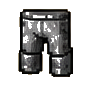
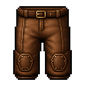
Add files via upload

diff --git a/index.html b/index.html
@@ -1,4 +1,4 @@
-<!doctype html><html lang="ja"><head><meta charset="utf-8"><meta name="viewport" content="width=device-width,initial-scale=1,viewport-fit=cover,user-scalable=no"><title>100問計算RPG</title><link rel="manifest" href="./manifest.webmanifest"><meta name="apple-mobile-web-app-capable" content="yes"><meta name="theme-color" content="#071b32"><link rel="apple-touch-icon" href="./icon-180.png"><style>
+<!doctype html><html lang="ja"><head><meta charset="utf-8"><meta name="viewport" content="width=device-width,initial-scale=1,viewport-fit=cover,user-scalable=no"><title>100問計算RPG</title><link rel="manifest" href="./manifest.webmanifest"><link rel="icon" href="./icon-192.png"><meta name="apple-mobile-web-app-capable" content="yes"><meta name="theme-color" content="#071b32"><link rel="apple-touch-icon" href="./icon-180.png"><style>
 *{box-sizing:border-box;-webkit-tap-highlight-color:transparent}html,body{margin:0;background:#eef1f4;font-family:-apple-system,BlinkMacSystemFont,"Yu Gothic","Meiryo",sans-serif;color:#17202a;overscroll-behavior:none}body.lock{position:fixed;inset:0;overflow:hidden;touch-action:none}main{min-height:100dvh;display:grid;place-items:center;padding:12px}.card{width:min(1220px,100%);background:#fff;border-radius:22px;padding:14px}.hide{display:none!important}h1{text-align:center;margin:4px}button{width:100%;border:0;border-radius:13px;padding:14px;margin-top:8px;background:#17202a;color:#fff;font-size:18px;font-weight:800;cursor:pointer}.secondary{background:#e8edf2;color:#17202a}.top{display:flex;align-items:center;justify-content:space-between;gap:8px;font-weight:800;color:#667085}.problem{text-align:center;font-size:clamp(48px,11vh,86px);font-weight:900;margin:18px 0 8px}.display{height:70px;border:3px solid #ccd2d8;border-radius:14px;display:grid;place-items:center;font-size:50px;font-weight:900}.keys{display:grid;grid-template-columns:repeat(3,1fr);gap:7px;margin-top:8px}.key{margin:0;padding:12px;background:#e8edf2;color:#17202a;font-size:29px}.enter{background:#17202a;color:#fff;font-size:17px}.score{text-align:center;font-size:50px;font-weight:900}.loot{text-align:center;background:#fff5c8;padding:15px;border-radius:14px;font-size:22px;font-weight:900;margin:10px 0}.row{border-top:1px solid #ddd;padding:10px 2px;display:flex;justify-content:space-between}.geargrid{display:grid;grid-template-columns:repeat(5,1fr);gap:6px}.gear{text-align:center;background:#eef2f6;border-radius:10px;padding:8px}.gear b{display:block;font-size:20px}
 @media(max-height:750px){.card{padding:11px}.problem{font-size:46px;margin:7px}.display{height:52px;font-size:38px}.key{padding:8px}}
 
@@ -26,10 +26,11 @@
 .statList{display:grid;gap:7px;margin-top:15px}.statItem{display:flex;justify-content:space-between;gap:10px;padding:9px;border-radius:8px;background:#ffffff0c;border:1px solid #ffffff18}.statItem b{color:#ffe07a;text-align:right}.rankLabel{margin:13px 0 6px;color:#fff1bd;font-size:13px;font-weight:900}.rankPath{display:flex;align-items:center;justify-content:space-between;gap:3px;font-size:11px}.rankStep{padding:6px 5px;border-radius:7px;background:#07111d;color:#9ba5ae;white-space:nowrap}.rankStep.active{background:#b17314;color:#fff3c1;font-weight:900}
 .equipGrid{display:grid;grid-template-columns:repeat(5,minmax(0,1fr));gap:7px}.eqCard{min-width:0;min-height:184px;display:flex;flex-direction:column;align-items:center;overflow:hidden;border:1px solid #b78326;border-radius:9px;background:linear-gradient(#fff7dc,#ead6a6);color:#2b1b08;box-shadow:inset 0 0 0 1px #fff9d8}.eqHead{width:100%;padding:6px 2px;background:linear-gradient(#5a3b0c,#2b1b05);color:#fff2c6;text-align:center;font-size:12px;font-weight:900}.eqIconWrap{width:100%;height:72px;display:grid;place-items:center;margin-top:4px}.eqIcon{display:block;width:62px;height:62px;object-fit:contain;image-rendering:pixelated;border:0}.eqName{min-height:3.2em;display:flex;align-items:center;justify-content:center;padding:3px 5px;text-align:center;font-size:12px;font-weight:900;line-height:1.35;overflow-wrap:anywhere}.eqState{margin:auto 4px 7px;padding:4px 8px;border-radius:99px;background:#2d7b2f;color:#fff;font-size:10px;font-weight:900;white-space:nowrap}.eqState.missing{background:#746c61;color:#f4f1eb}.completeValue{display:grid;grid-template-columns:1fr 1fr;gap:8px;margin-top:10px;padding:0;background:transparent;color:#ffe69a;font-size:14px}.completeMetric{padding:8px;border-radius:8px;background:#ffffff0d;text-align:center}.completeMetric b{display:block;margin-top:2px;font-size:19px}.menuGrid{display:grid;grid-template-columns:1fr 1fr;gap:8px;margin-top:10px}.menuButton{margin:0!important;padding:10px 6px!important;font-size:13px!important;background:linear-gradient(#573508,#271704)!important;border:1px solid #d8a448!important}
 .widePanels{display:grid;grid-template-columns:1fr 1fr;gap:14px;margin-top:14px}.infoPanel{min-height:210px}.bossSummary{display:grid;grid-template-columns:82px 1fr;gap:12px;align-items:center}.bossMark{font-size:62px;text-align:center}.bossSummary p{margin:4px 0}.bossReady{color:#ffd64b;font-weight:900}.recentOverlay{font-size:13px}.recentRow{display:grid;grid-template-columns:.8fr .85fr .75fr .9fr;gap:8px;padding:9px 0;border-bottom:1px solid #835125;align-items:center}.recentEmpty{min-height:110px;display:grid;place-items:center;color:#d8c6a2;font-weight:800}
+.bossArt{display:block;width:82px;height:82px;object-fit:contain;filter:drop-shadow(0 5px 5px #0008)}.bossBookGrid{display:grid;grid-template-columns:repeat(5,minmax(150px,1fr));gap:12px}.bossBookEntry{padding:12px;border:1px solid #c48818;border-radius:14px;background:#071b2c;text-align:center}.bossBookEntry.current{box-shadow:0 0 0 3px #ffd24a inset}.bossBookEntry img{width:132px;height:132px;object-fit:contain;max-width:100%}.bossBookEntry h2{font-size:17px;margin:4px 0}.bossBookEntry p{margin:3px 0;font-size:13px}.bossBookEntry.future img{filter:brightness(0)}.bossBookEntry.future h2{letter-spacing:.15em}.bossResult{font-weight:900;color:#ffe071}
 .ruleStrip{margin-top:14px}.ruleStrip summary{cursor:pointer;color:#ffe699;font-weight:900}.ruleStrip ol{columns:2;line-height:1.75;margin-bottom:0}
 .subPage{min-height:70vh;padding:4px}.ruleCard,.bossCard{background:#f7f1e5;border:3px solid #79551d;border-radius:16px;padding:16px;box-shadow:inset 0 0 0 2px #d8bb78}.ruleCard ol{line-height:1.75;padding-left:24px}.bossCard{text-align:center}.bossEmoji{font-size:72px}.bossCard h2{margin:5px 0}
-@media(max-width:1040px){.rpgGrid{grid-template-columns:1fr}.rpgGrid>.rpgPanel{height:auto}.heroPanel{min-height:0}.heroPortrait{width:190px}.equipGrid{grid-template-columns:repeat(3,minmax(0,1fr))}.eqCard{min-height:176px}.equipGrid .eqCard:nth-child(4),.equipGrid .eqCard:nth-child(5){grid-column:span 1}.widePanels{grid-template-columns:1fr}.ruleStrip ol{columns:1}.startButton{font-size:clamp(18px,3.5vw,25px)!important}}
-@media(max-width:560px){main{padding:5px}.card{padding:5px;border-radius:10px}.rpgHome{padding:9px;border-width:2px}.rpgPanel{padding:10px}.gameTitle{font-size:clamp(31px,11vw,44px)}.heroPortrait{width:170px}.startButton{font-size:clamp(15px,4.5vw,20px)!important;padding-inline:4px!important}.equipGrid{grid-template-columns:repeat(2,minmax(0,1fr))}.eqCard:first-child{grid-column:1/-1}.eqName{font-size:13px}.menuGrid{grid-template-columns:1fr}.completeValue{grid-template-columns:1fr}.recentRow{grid-template-columns:1fr 1fr}.recentRow .recentKind{display:none}.rankPath{overflow-x:auto;justify-content:flex-start;padding-bottom:3px}.rankStep{font-size:11px}.ruleStrip ol{padding-left:23px}}
+@media(max-width:1040px){.rpgGrid{grid-template-columns:1fr}.rpgGrid>.rpgPanel{height:auto}.heroPanel{min-height:0}.heroPortrait{width:190px}.equipGrid{grid-template-columns:repeat(3,minmax(0,1fr))}.eqCard{min-height:176px}.equipGrid .eqCard:nth-child(4),.equipGrid .eqCard:nth-child(5){grid-column:span 1}.widePanels{grid-template-columns:1fr}.bossBookGrid{grid-template-columns:repeat(2,minmax(0,1fr))}.ruleStrip ol{columns:1}.startButton{font-size:clamp(18px,3.5vw,25px)!important}}
+@media(max-width:560px){main{padding:5px}.card{padding:5px;border-radius:10px}.rpgHome{padding:9px;border-width:2px}.rpgPanel{padding:10px}.gameTitle{font-size:clamp(31px,11vw,44px)}.heroPortrait{width:170px}.startButton{font-size:clamp(15px,4.5vw,20px)!important;padding-inline:4px!important}.equipGrid{grid-template-columns:repeat(2,minmax(0,1fr))}.eqCard:first-child{grid-column:1/-1}.eqName{font-size:13px}.menuGrid{grid-template-columns:1fr}.completeValue{grid-template-columns:1fr}.recentRow{grid-template-columns:1fr 1fr}.recentRow .recentKind{display:none}.bossBookGrid{grid-template-columns:1fr}.rankPath{overflow-x:auto;justify-content:flex-start;padding-bottom:3px}.rankStep{font-size:11px}.ruleStrip ol{padding-left:23px}}
 @media(max-height:750px){.problem{font-size:46px;margin:7px}.display{height:52px;font-size:38px}.key{padding:8px}}
 </style></head><body><main><section class="card">
 <div id="home"><div class="rpgHome">
@@ -49,7 +50,7 @@
       <div class="menuGrid"><button class="menuButton" id="historyHot">📜 過去の記録</button><button class="menuButton" id="gearHot">📖 装備図鑑</button><button class="menuButton" id="bossBookHot">👾 ボス図鑑</button><button class="menuButton" id="rulesHot">❔ 遊び方 / ルール</button></div>
     </section>
   </div>
-  <div class="widePanels"><section class="rpgPanel infoPanel"><h2 class="panelTitle">👾 ボスについて</h2><div class="bossSummary"><div class="bossMark">🐉</div><div><p><b>はじまりの竜</b></p><p>通常100問を3回クリアすると出現。</p><p>20問すべて一発正解で撃破！</p><p class="bossReady" id="bossSummary"></p><p id="bossWins"></p></div></div><button id="bossBtn" class="hide bossAction">ボスに挑戦する</button></section>
+  <div class="widePanels"><section class="rpgPanel infoPanel"><h2 class="panelTitle">👾 ボスについて</h2><div class="bossSummary"><img id="bossImage" class="bossArt" alt=""><div><p><b id="bossName"></b></p><p>通常100問を3回クリアすると出現。</p><p>20問すべて一発正解で撃破！</p><p class="bossReady" id="bossSummary"></p><p id="bossWins"></p></div></div><button id="bossBtn" class="hide bossAction">ボスに挑戦する</button></section>
   <section class="rpgPanel infoPanel"><h2 class="panelTitle">👑 最近の記録</h2><div class="recentOverlay" id="recentOverlay"></div></section></div>
   <details class="rpgPanel ruleStrip"><summary>📖 ゲームルールを表示</summary><ol><li>毎日100問の計算に挑戦する</li><li>100問を最後まで解くとEXP獲得</li><li>連続して挑戦するとEXPボーナス</li><li>休んでもレベル・装備・進行は失わない</li><li>100問を3回クリアするとボス出現</li><li>ボス戦は20問</li><li>全問一発正解でボス撃破</li><li>ボスを倒すと防具宝箱を1個GET</li><li>防具はランダムで重複あり</li><li>頭・胴・脚・足を全部集めると次ランク解放</li><li>ランク解放時に新しい剣を自動装備</li><li>最高ランクを目指す</li></ol></details>
 </div></div>
@@ -60,13 +61,7 @@
 
 <div id="bossbook" class="hide subPage">
   <h1>ボス図鑑</h1>
-  <div class="bossCard">
-    <div class="bossEmoji">🐉</div>
-    <h2>はじまりの竜</h2>
-    <p>通常の100問を3回クリアすると出現。</p>
-    <p><b>20問すべて一発正解</b>で撃破できます。</p>
-    <div id="bossRecord"></div>
-  </div>
+  <div id="bossCatalog" class="bossBookGrid"></div>
   <button class="secondary back">トップへ戻る</button>
 </div>
 
@@ -88,9 +83,18 @@
   <button class="secondary back">トップへ戻る</button>
 </div>
 </section></main><script>
-const $=x=>document.getElementById(x),T=["革","石","鉄","ダイヤ","ネザライト"],TK=["leather","stone","iron","diamond","nether"],P=["頭","胴","脚","足"],PK=["head","body","legs","feet"],W=["木の剣","石の剣","鉄の剣","ダイヤの剣","ネザライトの剣"];let qs=[],i=0,w=[],v="",t0=0,tick,kind="normal";
+const $=x=>document.getElementById(x),T=["革","石","鉄","ダイヤ","ネザライト"],TK=["leather","stone","iron","diamond","nether"],P=["頭","胴","脚","足"],PK=["head","body","legs","feet"],W=["木の剣","石の剣","鉄の剣","ダイヤの剣","ネザライトの剣"];
+const BOSSES=[
+  {id:"starter_dragon",tier:0,name:"はじまりの竜",image:"./assets/bosses/boss_leather.png"},
+  {id:"rock_golem",tier:1,name:"岩石ゴーレム",image:"./assets/bosses/boss_stone.png"},
+  {id:"black_iron_knight",tier:2,name:"黒鉄の騎士",image:"./assets/bosses/boss_iron.png"},
+  {id:"azure_crystal_dragon",tier:3,name:"蒼晶のドラゴン",image:"./assets/bosses/boss_diamond.png"},
+  {id:"nether_demon_king",tier:4,name:"冥界の魔王",image:"./assets/bosses/boss_nether.png"}
+];
+let qs=[],i=0,w=[],v="",t0=0,tick,kind="normal",activeBoss=null;
+function bossForTier(tier){return BOSSES[Math.min(4,Math.max(0,tier||0))]}
 function dk(d=new Date()){return d.getFullYear()+"-"+String(d.getMonth()+1).padStart(2,"0")+"-"+String(d.getDate()).padStart(2,"0")}
-function state(){const base={xp:0,clears:0,boss:false,tier:0,gear:{},hist:[],dates:[],total:0};try{const old=JSON.parse(localStorage.getItem("calcRPG")||"{}");const s={...base,...old};s.gear=s.gear&&typeof s.gear==="object"?s.gear:{};s.hist=Array.isArray(s.hist)?s.hist:[];s.dates=Array.isArray(s.dates)?s.dates:[];s.xp=Number.isFinite(s.xp)?s.xp:0;s.clears=Number.isFinite(s.clears)?s.clears:0;s.tier=Math.min(4,Math.max(0,Number.isFinite(s.tier)?s.tier:0));s.total=Number.isFinite(s.total)?s.total:0;s.boss=Boolean(s.boss);return s}catch(e){return base}}
+function state(){const base={xp:0,clears:0,boss:false,tier:0,gear:{},hist:[],dates:[],total:0,bossWins:{}};try{const old=JSON.parse(localStorage.getItem("calcRPG")||"{}");const s={...base,...old};s.gear=s.gear&&typeof s.gear==="object"?s.gear:{};s.hist=Array.isArray(s.hist)?s.hist:[];s.dates=Array.isArray(s.dates)?s.dates:[];s.bossWins=s.bossWins&&typeof s.bossWins==="object"&&!Array.isArray(s.bossWins)?s.bossWins:{};BOSSES.forEach(b=>s.bossWins[b.id]=Math.max(0,Number.isFinite(s.bossWins[b.id])?s.bossWins[b.id]:0));s.xp=Number.isFinite(s.xp)?s.xp:0;s.clears=Number.isFinite(s.clears)?s.clears:0;s.tier=Math.min(4,Math.max(0,Number.isFinite(s.tier)?s.tier:0));s.total=Number.isFinite(s.total)?s.total:0;s.boss=Boolean(s.boss);return s}catch(e){return base}}
 function save(s){localStorage.setItem("calcRPG",JSON.stringify(s))}
 function sh(a){for(let j=a.length-1;j;j--){let k=Math.floor(Math.random()*(j+1));[a[j],a[k]]=[a[k],a[j]]}return a}
 function gen(n){let a=[],u=new Set(),p=Math.ceil(n/2);while(a.length<p){let x=10+Math.floor(Math.random()*90),y=10+Math.floor(Math.random()*90),k=`+${x},${y}`;if(!u.has(k)){u.add(k);a.push({x,y,o:"+",a:x+y})}}while(a.length<n){let x=10+Math.floor(Math.random()*90),y=10+Math.floor(Math.random()*90);if(y>x)[x,y]=[y,x];let k=`-${x},${y}`;if(!u.has(k)){u.add(k);a.push({x,y,o:"−",a:x-y})}}return sh(a)}
@@ -132,7 +136,7 @@ function renderRecent(s){
 }
 
 function home(){document.body.classList.remove("lock");hide();$("home").classList.remove("hide");
-  let s=state(),level=levelInfo(s.xp),lv=level.level,x=level.current,st=bonusStreak(s),daily=todayNormal(s);
+  let s=state(),level=levelInfo(s.xp),lv=level.level,x=level.current,st=bonusStreak(s),daily=todayNormal(s),currentBoss=bossForTier(s.tier);
   $("lvLive").textContent=lv;
   $("xpLive").textContent=x+" / 300";
   $("xpFill").style.width=(x/3)+"%";
@@ -143,21 +147,23 @@ function home(){document.body.classList.remove("lock");hide();$("home").classLis
   $("bonusLive").textContent=st>1?"+"+streakBonus(st)+" EXP（"+st+"日連続）":"なし";
   $("bossLive").textContent=s.boss?"出現中！":"あと "+(3-(s.clears%3))+"回";
   $("bossSummary").textContent=s.boss?"BOSS出現中！":"次のボスまであと "+(3-(s.clears%3))+"回";
-  $("bossWins").textContent="ボス撃破数 "+s.hist.filter(x=>x.kind==="boss"&&x.score===20).length+"体";
+  $("bossImage").src=currentBoss.image;$("bossImage").alt=currentBoss.name;$("bossName").textContent=currentBoss.name;
+  $("bossWins").textContent=currentBoss.name+" 撃破数 "+s.bossWins[currentBoss.id]+"体";
   $("rankPath").innerHTML=T.map((name,n)=>`<span class="rankStep ${n===s.tier?"active":""}">${name}</span>${n<T.length-1?"<span>›</span>":""}`).join("");
   renderTopEquipment(s);renderRecent(s);
   $("bossBtn").classList.toggle("hide",!s.boss)
 }
 function startSession(questions,k){kind=k;qs=sh(questions.slice());i=0;w=[];v="";hide();$("quiz").classList.remove("hide");document.body.classList.add("lock");$("mode").textContent=k==="boss"?"BOSS":k==="review"?"復習":"通常";t0=Date.now();$("timer").textContent=fmt(0);clearInterval(tick);tick=setInterval(()=>$("timer").textContent=fmt(Date.now()-t0),500);show()}
-function begin(n,k){startSession(gen(n),k)}
+function begin(n,k){if(k==="boss")activeBoss={...bossForTier(state().tier)};startSession(gen(n),k)}
 function show(){if(i>=qs.length)return finish();let q=qs[i];$("prog").textContent=(i+1)+"/"+qs.length;$("prob").textContent=q.x+" "+q.o+" "+q.y+" =";v="";$("disp").textContent="　"}
 function key(k){if(k==="B"){v=v.slice(0,-1)}else if(k==="E"){if(v==="")return;let q=qs[i];if(+v!==q.a)w.push({...q,g:v});i++;return show()}else if(v.length<3)v+=k;$("disp").textContent=v||"　"}
 function finish(now=new Date()){clearInterval(tick);document.body.classList.remove("lock");let tm=Math.max(0,Date.now()-t0),s=state(),score=qs.length-w.length;hide();$("result").classList.remove("hide");$("loot").classList.add("hide");$("rtitle").textContent=kind==="boss"?"ボス戦結果":kind==="review"?"復習結果":"今日の結果";$("score").textContent=score+"/"+qs.length+"点";$("rinfo").textContent="所要時間 "+fmt(tm);$("wrongs").innerHTML=w.length?"<h2>間違えた問題</h2>":"<p style='text-align:center'>全問正解！</p>";w.forEach(q=>$("wrongs").innerHTML+=`<div class=row><span>${q.x} ${q.o} ${q.y} = <s>${q.g}</s></span><b>${q.a}</b></div>`);$("retry").classList.toggle("hide",!w.length);$("retry").textContent=kind==="boss"?"ボス20問にもう一度挑戦":kind==="review"?"残り"+w.length+"問をもう一度":"間違えた"+w.length+"問をもう一度";
  if(kind==="normal"){s.total+=qs.length;const date=dk(now);if(!s.dates.includes(date))s.dates.push(date);let st=streak(s),bonus=streakBonus(st),gain=normalGain(score,st);s.xp+=gain;s.clears++;if(s.clears%3===0)s.boss=true;s.hist.push({date,at:now.toISOString(),kind:"normal",score,total:100,time:tm,xp:gain});$("rinfo").textContent+="　獲得EXP +"+gain+(bonus?`（連続ボーナス +${bonus} EXP）`:"")}
  else if(kind==="review"){s.total+=qs.length;$("rinfo").textContent+="　復習完了（EXP・クリア回数・ボス進行への加算なし）"}
- else if(kind==="boss"&&score===20){s.boss=false;s.total+=qs.length;s.xp+=100;let tier=Math.min(s.tier,4),part=Math.floor(Math.random()*4),key=tier+"-"+part;s.gear[key]=(s.gear[key]||0)+1;let complete=P.every((_,p)=>s.gear[tier+"-"+p]>0);let msg=T[tier]+"の"+P[part]+"装備 GET！";if(complete&&tier<4){s.tier++;msg+="　"+T[tier]+"装備 COMPLETE！ → "+T[s.tier]+"装備解放！"}else if(complete&&tier===4)msg+="　最高ランク COMPLETE！";$("loot").textContent=msg;$("loot").classList.remove("hide");s.hist.push({date:dk(now),at:now.toISOString(),kind:"boss",score:20,total:20,time:tm})}
+ else if(kind==="boss"&&score===20){const defeated=activeBoss||bossForTier(s.tier),tier=defeated.tier;s.boss=false;s.total+=qs.length;s.xp+=100;s.bossWins[defeated.id]=(s.bossWins[defeated.id]||0)+1;let part=Math.floor(Math.random()*4),key=tier+"-"+part;s.gear[key]=(s.gear[key]||0)+1;let complete=P.every((_,p)=>s.gear[tier+"-"+p]>0),msg=defeated.name+" 撃破！　"+T[tier]+"の"+P[part]+"装備 GET！";$("rtitle").textContent=defeated.name+" 撃破！";if(complete&&tier<4){s.tier=tier+1;const next=bossForTier(s.tier);msg+="　"+T[tier]+"装備 COMPLETE！　新ランク："+T[s.tier]+"　新しい武器："+W[s.tier]+"　次のボス："+next.name}else if(complete&&tier===4)msg+="　最高ランク COMPLETE！";$("loot").textContent=msg;$("loot").classList.remove("hide");s.hist.push({date:dk(now),at:now.toISOString(),kind:"boss",score:20,total:20,time:tm,bossId:defeated.id,bossName:defeated.name,tier})}
  else if(kind==="boss"){$("rinfo").textContent+="　ボスに逃げられた！ 20問すべて一発正解でもう一度挑戦！"}save(s)}
-function showHist(){hide();$("history").classList.remove("hide");let a=state().hist.slice().reverse();$("hist").innerHTML=a.length?"":"記録はまだありません。";a.forEach(x=>{const date=x&&x.date||"日付不明",score=Number.isFinite(x&&x.score)?x.score:"-",total=Number.isFinite(x&&x.total)?x.total:"-",time=Number.isFinite(x&&x.time)?fmt(x.time):"時間不明";$("hist").innerHTML+=`<div class=row><span>${date} ${x&&x.kind==="boss"?"BOSS":"通常"}</span><b>${score}/${total}　${time}</b></div>`})}
+function showHist(){hide();$("history").classList.remove("hide");let a=state().hist.slice().reverse();$("hist").innerHTML=a.length?"":"記録はまだありません。";a.forEach(x=>{const date=x&&x.date||"日付不明",score=Number.isFinite(x&&x.score)?x.score:"-",total=Number.isFinite(x&&x.total)?x.total:"-",time=Number.isFinite(x&&x.time)?fmt(x.time):"時間不明",label=x&&x.kind==="boss"?(x.bossName||"BOSS"):"通常";$("hist").innerHTML+=`<div class=row><span>${date} ${label}</span><b>${score}/${total}　${time}</b></div>`})}
+function showBossBook(){hide();$("bossbook").classList.remove("hide");const s=state();$("bossCatalog").innerHTML=BOSSES.map(b=>{const unlocked=b.tier<=s.tier,current=b.tier===s.tier,name=unlocked?b.name:"？？？",status=current?"現在のボス":b.tier<s.tier?"解放済み":"未解放";return `<article class="bossBookEntry ${current?"current":""} ${unlocked?"":"future"}"><img src="${b.image}" alt="${unlocked?b.name:"未解放のボス"}"><h2>${name}</h2><p>${T[b.tier]}ランク</p><p><b>${status}</b></p><p>討伐数：${unlocked?s.bossWins[b.id]:"－"}体</p></article>`}).join("")}
 function showGear(){hide();$("gearbook").classList.remove("hide");let s=state(),z="";
   T.forEach((t,ti)=>{
     const unlocked=ti<=s.tier;
@@ -170,6 +176,6 @@ function showGear(){hide();$("gearbook").classList.remove("hide");let s=state(),
 }
 $("startHot").onclick=()=>begin(100,"normal");$("bossBtn").onclick=()=>begin(20,"boss");document.querySelectorAll(".key").forEach(b=>b.onclick=()=>key(b.dataset.k));
 $("quizBack").onclick=()=>{if(confirm("途中の計算結果は記録されません。\nトップページに戻りますか？")){clearInterval(tick);home()}};$("retry").onclick=()=>{if(kind==="boss")startSession(gen(20),"boss");else{const missed=w.map(({g,...q})=>q);startSession(missed,"review")}};$("historyHot").onclick=showHist;$("gearHot").onclick=showGear;
-$("bossBookHot").onclick=()=>{hide();$("bossbook").classList.remove("hide");let s=state(),wins=s.hist.filter(x=>x.kind==="boss"&&x.score===20).length;$("bossRecord").innerHTML="<b>討伐数："+wins+"体</b>"};
+$("bossBookHot").onclick=showBossBook;
 $("rulesHot").onclick=()=>{hide();$("rulesPage").classList.remove("hide")};document.querySelectorAll(".back").forEach(b=>b.onclick=home);home();if("serviceWorker"in navigator)addEventListener("load",()=>navigator.serviceWorker.register("./sw.js"));
 </script></body></html>

diff --git a/tests/boss-tier-test.js b/tests/boss-tier-test.js
@@ -1,0 +1,29 @@
+const { createHarness } = require("./test-harness");
+
+let passed = 0;
+const failures = [];
+function test(name, fn) { try { fn(); passed++; } catch (error) { failures.push(`${name}: ${error.message}`); } }
+function assert(ok, message) { if (!ok) throw new Error(message); }
+function base(overrides = {}) { return { xp:0, clears:0, boss:true, tier:0, gear:{}, hist:[], dates:[], total:0, ...overrides }; }
+function win(h, date="2026-08-13T03:00:00Z") { h.run(`qs=Array.from({length:20},()=>({x:20,y:10,o:"+",a:30}));w=[];t0=Date.now();kind="boss";finish(new Date(${JSON.stringify(date)}))`); }
+
+const expected = [
+  ["starter_dragon","はじまりの竜"], ["rock_golem","岩石ゴーレム"],
+  ["black_iron_knight","黒鉄の騎士"], ["azure_crystal_dragon","蒼晶のドラゴン"],
+  ["nether_demon_king","冥界の魔王"],
+];
+
+test("5ランクとボスの対応",()=>{const h=createHarness();expected.forEach(([id,name],tier)=>{const b=h.context.bossForTier(tier);assert(b.id===id&&b.name===name&&b.tier===tier,`tier ${tier}`)})});
+for(const tier of [0,2,4]) test(`旧セーブ互換 tier ${tier}`,()=>{const h=createHarness({xp:40,tier,gear:{},hist:[],dates:[],total:0});const s=h.context.state();assert(s.tier===tier&&Object.keys(s.bossWins).length===5&&Object.values(s.bossWins).every(n=>n===0),"初期化")});
+
+expected.forEach(([id,name],tier)=>test(`${name} 討伐記録`,()=>{const h=createHarness(base({tier}));h.setRandom(0);h.run(`activeBoss={...bossForTier(${tier})}`);win(h);const s=h.getState(),r=s.hist[0];assert(s.bossWins[id]===1,"討伐数");assert(r.bossId===id&&r.bossName===name&&r.tier===tier,"履歴");assert(s.xp===100&&s.total===20&&s.gear[`${tier}-0`]===1,"報酬")}));
+
+test("失敗では討伐数を加算しない",()=>{const h=createHarness(base({tier:3}));h.run('activeBoss={...bossForTier(3)};qs=Array.from({length:20},()=>({x:20,y:10,o:"+",a:30}));w=[{x:20,y:10,o:"+",a:30,g:"0"}];t0=Date.now();kind="boss";finish(new Date())');const s=h.getState();assert(s.bossWins.azure_crystal_dragon===0&&s.hist.length===0&&s.boss,"失敗時")});
+test("戦闘開始時のボスを固定",()=>{const h=createHarness(base({tier:1}));h.run('activeBoss={...bossForTier(1)};let s=state();s.tier=2;save(s)');win(h);const s=h.getState();assert(s.hist[0].bossId==="rock_golem"&&s.hist[0].tier===1&&s.bossWins.rock_golem===1,"固定されていない")});
+test("ランクアップ結果に次ボスと武器",()=>{const gear={"0-0":1,"0-1":1,"0-2":1};const h=createHarness(base({gear}));h.setRandom(.99);h.run('activeBoss={...bossForTier(0)}');win(h);const s=h.getState(),text=h.nodes.get("loot").textContent;assert(s.tier===1&&text.includes("COMPLETE")&&text.includes("石の剣")&&text.includes("岩石ゴーレム"),"結果文")});
+test("最高ランクは4で停止",()=>{const gear={"4-0":1,"4-1":1,"4-2":1};const h=createHarness(base({tier:4,gear}));h.setRandom(.99);h.run('activeBoss={...bossForTier(4)}');win(h);assert(h.getState().tier===4,"上限")});
+test("図鑑に現在・未来・5体",()=>{const h=createHarness(base({tier:2,bossWins:{black_iron_knight:2}}));h.context.showBossBook();const html=h.nodes.get("bossCatalog").innerHTML;assert((html.match(/bossBookEntry/g)||[]).length===5&&html.includes("黒鉄の騎士")&&html.includes("現在のボス")&&html.includes("？？？")&&html.includes("討伐数：2体"),"図鑑")});
+
+const total = passed + failures.length;
+if (failures.length) { console.error(`Boss tier tests: ${passed}/${total} passed`); failures.forEach(f=>console.error(`FAIL ${f}`)); process.exit(1); }
+console.log(`Boss tier tests: ${passed}/${total} passed`);

diff --git a/sw.js b/sw.js
@@ -1,8 +1,9 @@
-const CACHE="calc-rpg-v9";
+const CACHE="calc-rpg-v10";
 const CORE=["./","./index.html","./manifest.webmanifest","./app-icon.png","./icon-180.png","./icon-192.png","./icon-512.png"];
 const TIERS=["leather","stone","iron","diamond","nether"];
 const PARTS=["weapon","head","body","legs","feet"];
-const ASSETS=CORE.concat(TIERS.flatMap(t=>PARTS.map(p=>`./eq_${t}_${p}.png`)));
+const BOSS_ASSETS=TIERS.map(t=>`./assets/bosses/boss_${t}.png`);
+const ASSETS=CORE.concat(TIERS.flatMap(t=>PARTS.map(p=>`./eq_${t}_${p}.png`)),BOSS_ASSETS);
 self.addEventListener("install",event=>event.waitUntil(caches.open(CACHE).then(cache=>cache.addAll(ASSETS)).then(()=>self.skipWaiting())));
 self.addEventListener("activate",event=>event.waitUntil(caches.keys().then(keys=>Promise.all(keys.filter(key=>key!==CACHE).map(key=>caches.delete(key)))).then(()=>self.clients.claim())));
 self.addEventListener("fetch",event=>{if(event.request.method!=="GET")return;event.respondWith(caches.match(event.request).then(cached=>cached||fetch(event.request).then(response=>{const copy=response.clone();caches.open(CACHE).then(cache=>cache.put(event.request,copy));return response}).catch(()=>caches.match("./index.html"))))});
